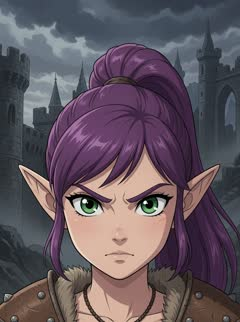
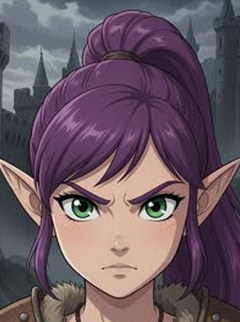
14 張頭像整體對齊：比例大小與高低
自動量測連試三種都失敗，全部丟掉：
- 全域膚色偵測：金髮與亮盔甲被判成皮膚，paladin 反而量成最寬
- 暗塊左右重心：抓到臉旁髮絲，archmage 量到 188px
- 連通區塊配對：把結果疊回原圖一看，抓到的多半是眉毛不是瞳孔

教訓：這種量測一定要把結果畫出來確認，只看數字會被騙。

改用可比較的目視法：14 張裁同一段 y 帶並排、每 20px 畫格線，瞳距用格子數讀。
中位數約 58px，眼線目標 y≈210。

同時修正上一輪的錯誤：v1.38 把 archmage 放大 1.10，但它本來就是全場最大的
一張（瞳距約 70），這輪改回 1.02 只保留上移。

extend_top() 擴充成 extend(top, bottom)：縮放接近 1 又要平移時裁切框會同時
超出上下兩端，只補上緣 PIL 會丟 box can't exceed original image size。

Claude-Session: https://claude.ai/code/session_01499oPV8s2HnsVoiMQYx47v

diff --git a/js/assetVersions.js b/js/assetVersions.js
@@ -131,18 +131,18 @@ window.HF_ASSET_V = {
 "assets/heroes/paladin.png":"9d5ed22c01",
 "assets/heroes/princess.png":"96218e6b94",
 "assets/heroes/ranger.png":"2fc49c63c5",
-"assets/heroes/portraits/amazon.jpg":"ba69400e54",
-"assets/heroes/portraits/archmage.jpg":"6540e261ce",
+"assets/heroes/portraits/amazon.jpg":"5954d74e7c",
+"assets/heroes/portraits/archmage.jpg":"54ddf8319b",
 "assets/heroes/portraits/assassin.jpg":"39eb4b429f",
 "assets/heroes/portraits/axeman.jpg":"11f383f4aa",
 "assets/heroes/portraits/dark_elf.jpg":"59a535eae3",
-"assets/heroes/portraits/dark_fighter.jpg":"431d0b4d67",
+"assets/heroes/portraits/dark_fighter.jpg":"ca42bf4f07",
 "assets/heroes/portraits/dark_mage.jpg":"ad8268fd96",
-"assets/heroes/portraits/dragon_knight.jpg":"ead2c26b33",
+"assets/heroes/portraits/dragon_knight.jpg":"3e82e73893",
 "assets/heroes/portraits/knight.jpg":"19c2e34511",
 "assets/heroes/portraits/monk.jpg":"62f61e3d26",
 "assets/heroes/portraits/orc_archer.jpg":"7ef9ed013a",
-"assets/heroes/portraits/paladin.jpg":"d992348e04",
+"assets/heroes/portraits/paladin.jpg":"fdfc7392cd",
 "assets/heroes/portraits/princess.jpg":"a440ebe206",
 "assets/heroes/portraits/ranger.jpg":"f10aef4e72",
 "assets/audio/bgm/battle.mp3":"712fbb782a",

diff --git a/index.html b/index.html
@@ -67,7 +67,7 @@
           而且開著不重整就永遠不會重抓），所有 ?v= 都不會生效 ——
           那時這行會停在舊版本號，或整行不存在。**改版時記得改這裡。**
         -->
-        <p class="build-stamp" id="build-stamp">v1.38 · 0815-1112</p>
+        <p class="build-stamp" id="build-stamp">v1.39 · 0815-1118</p>
         <!-- 偵測到線上有新版時才出現；點一下重新載入 -->
         <button class="build-update" id="build-update" type="button" hidden>有新版本 · 點一下更新</button>
       </div>
@@ -343,7 +343,7 @@
     </div>
   </div>
   <!-- 逐檔素材版本表：由 tools/gen_asset_versions.py 產生，必須排在其他腳本之前 -->
-  <script src="js/assetVersions.js?v=068e3636fb"></script>
+  <script src="js/assetVersions.js?v=1e3d150713"></script>
   <script src="js/data.js?v=3"></script>
   <script src="js/rng.js?v=7"></script>
   <script src="js/videoPlayer.js?v=28"></script>

diff --git a/tools/fix_portrait_framing.py b/tools/fix_portrait_framing.py
@@ -43,28 +43,44 @@ SIZE = (240, 322)
 # zoom：>1 放大（頭變大）。dy：正值把畫面內容**往上**移（頭上移），負值往下。
 # 兩個值都是以原圖 322px 高為單位。
 ADJUST = {
-    # 瞳距 44 → 目標約 60，所以放大 1.30；順便把眼線壓回 210 附近
-    "paladin": {"zoom": 1.30, "dy": 6},
-    # 眼線本來就在 207，問題是頭頂留白太多 —— 往上收一點並略放大
-    "archmage": {"zoom": 1.10, "dy": 14},
-    # 眼線 150 太高，要把頭往下移。它的髮梢已經頂到上緣，
-    # 所以裁切框得伸到畫面外，上方不足的部分用鏡射＋模糊補
-    #（那一帶是暗色天空與城堡剪影，補完看不出來）。
-    "dragon_knight": {"zoom": 1.10, "dy": -46},
+    # 2026-08-15 第二輪：睿哥要「每個角色比例大小、位置高低盡量一致」。
+    # 量法見上面；把同一段 y 帶（150–285）並排、每 20px 畫格線，直接比瞳距。
+    # 讀出來的瞳距中位數約 58px，眼線目標 y≈210。
+    #
+    # ⚠ 第一輪把 archmage 放大 1.10 是**放錯方向** —— 它本來就是全場最大的一張
+    #（瞳距約 70）。這一輪改回接近原尺寸，只保留「往上移」那部分。
+    "amazon": {"zoom": 1.22, "dy": 6},          # 瞳距約 44，全場最小
+    "archmage": {"zoom": 1.02, "dy": 12},       # 瞳距約 70，全場最大：只上移不放大
+    "dark_fighter": {"zoom": 1.08, "dy": 4},    # 瞳距約 52，眼線 216 偏低
+    "dragon_knight": {"zoom": 1.16, "dy": -44}, # 瞳距約 50；眼線原本 150 太高
+    "paladin": {"zoom": 1.24, "dy": 4},         # 瞳距原本 44，第一輪 1.30 稍過頭
 }
 
 
-def extend_top(img: Image.Image, pad: int) -> Image.Image:
-    """在上緣補 `pad` 像素：取頂端同高的一條鏡射後重模糊，接縫看不出來。"""
-    if pad <= 0:
+
+def extend(img: Image.Image, top: int, bottom: int) -> Image.Image:
+    """上／下緣各補一段：取該端同高的一條鏡射後重模糊，接縫看不出來。
+
+    縮放小於 1（幾乎不放大）又要平移時，裁切框會同時超出上下兩端，
+    所以兩邊都要能補 —— 只做上緣的話 PIL 會丟 "box can't exceed original image size"。
+    """
+    top, bottom = max(0, top), max(0, bottom)
+    if not top and not bottom:
         return img
-    strip = img.crop((0, 0, img.width, min(pad, img.height)))
-    strip = strip.transpose(Image.FLIP_TOP_BOTTOM).filter(ImageFilter.GaussianBlur(6))
-    if strip.height < pad:
-        strip = strip.resize((img.width, pad), Image.LANCZOS)
-    out = Image.new("RGB", (img.width, img.height + pad))
-    out.paste(strip, (0, 0))
-    out.paste(img, (0, pad))
+    out = Image.new("RGB", (img.width, img.height + top + bottom))
+    if top:
+        s = img.crop((0, 0, img.width, min(top, img.height)))
+        s = s.transpose(Image.FLIP_TOP_BOTTOM).filter(ImageFilter.GaussianBlur(6))
+        if s.height < top:
+            s = s.resize((img.width, top), Image.LANCZOS)
+        out.paste(s, (0, 0))
+    out.paste(img, (0, top))
+    if bottom:
+        s = img.crop((0, max(0, img.height - bottom), img.width, img.height))
+        s = s.transpose(Image.FLIP_TOP_BOTTOM).filter(ImageFilter.GaussianBlur(6))
+        if s.height < bottom:
+            s = s.resize((img.width, bottom), Image.LANCZOS)
+        out.paste(s, (0, top + img.height))
     return out
 
 
@@ -75,14 +91,15 @@ def reframe(src: Image.Image, zoom: float, dy: float) -> tuple[Image.Image, str]
     top = cy - ch / 2
     # 用 ceil 不用 round：四捨五入會少補一個像素，top 就會剩下 -0.4，
     # PIL 的 resize(box=...) 不吃負的偏移，直接 ValueError。
-    pad = max(0, math.ceil(-top))
-    work = extend_top(src, pad)
-    top += pad
+    pad_t = max(0, math.ceil(-top))
+    pad_b = max(0, math.ceil(top + ch - src.height))
+    work = extend(src, pad_t, pad_b)
+    top += pad_t
     left = cx - cw / 2
     box = (left, top, left + cw, top + ch)
     note = f"zoom {zoom:.2f} dy {dy:+.0f} 裁切 {tuple(round(v) for v in box)}"
-    if pad:
-        note += f" · 上緣補 {pad}px"
+    if pad_t or pad_b:
+        note += f" · 補邊 上{pad_t} 下{pad_b}px"
     return work.resize(SIZE, Image.LANCZOS, box=box), note
 
 

diff --git a/PROJECT_NOTES.md b/PROJECT_NOTES.md
@@ -7,7 +7,7 @@
 ## 目前狀態
 
 - 最後更新：2026-08-14（Claude Code）
-- 進度：可玩 **v1.38**（v1.9 的 3 支修正影片＋7 個角色改名＋確定動畫可點擊跳過＋展翼版魔王立繪 `boss_model_v3.png` 與新的魔王降臨影片）；14 角色影片（wait／confirm／attack／victory 各 14 支，CRF 29 共 26MB）；使用者製作的開始選單伴奏＋14 角選角專屬 BGM 精華、3 首原有場景 BGM、14 角各自攻擊／勝利音效、完整 UI／魔王聲效；角色卡切換會平滑換曲，首頁音效按鈕與設定圖示會依開關在 🔊／🔇 間同步切換；14 張選角卡完整排成 7×2
+- 進度：可玩 **v1.39**（v1.9 的 3 支修正影片＋7 個角色改名＋確定動畫可點擊跳過＋展翼版魔王立繪 `boss_model_v3.png` 與新的魔王降臨影片）；14 角色影片（wait／confirm／attack／victory 各 14 支，CRF 29 共 26MB）；使用者製作的開始選單伴奏＋14 角選角專屬 BGM 精華、3 首原有場景 BGM、14 角各自攻擊／勝利音效、完整 UI／魔王聲效；角色卡切換會平滑換曲，首頁音效按鈕與設定圖示會依開關在 🔊／🔇 間同步切換；14 張選角卡完整排成 7×2
 - 路徑：`/Users/longxia7hao/Heroes_Fate/`
 - **開工必讀（會自動載入，跨裝置都有效）：`CLAUDE.md`**；架構長篇說明：`AGENT_HANDOFF.md`（內文現況數字是 2026-08-01 的舊值，只當背景讀）
 - **GitHub（2026-08-13 建立）**：`longxia7hao-dev/heroes-fate`（公開），版本控制 265 檔約 73MB；`assets/anim`（128MB）與舊高碼率原片 `assets/videos/{wait,confirm,victory}`（272MB）由 `.gitignore` 排除，只留本機與 Drive
@@ -43,6 +43,7 @@
 
 ## 變更日誌
 
+- 2026-08-15｜Claude Code｜**v1.39 14 張頭像整體對齊（比例大小與高低）**：①睿哥：「盡量讓每個角色比例大小、位置高低一致。」②**自動量測連試三種都失敗，全部丟掉**：(a) 全域膚色偵測 —— 金髮與亮盔甲被判成皮膚，量出來 paladin 反而最寬；(b) 暗塊左右重心 —— 抓到臉旁的髮絲，archmage 量到 188px；(c) 連通區塊配對 —— **把偵測結果疊回原圖一看，抓到的多半是眉毛不是瞳孔**。**教訓：這種量測一定要把結果畫出來確認，只看數字會被騙。**③改用**目視但可比較**的方法：把 14 張裁同一段 y 帶（150–285）並排、每 20px 畫格線，瞳距直接用格子數讀。讀出來瞳距中位數約 **58px**、眼線目標 y≈210。④**發現上一輪做錯一件事**：v1.38 把 archmage 放大 1.10 —— 但它本來就是**全場最大**的一張（瞳距約 70）。這輪改回 1.02（幾乎不放大），只保留「往上移」。⑤這輪的設定：amazon 1.22/+6（瞳距 44，全場最小）、archmage 1.02/+12、dark_fighter 1.08/+4（眼線 216 偏低）、dragon_knight 1.16/−44、paladin 1.24/+4。⑥`extend_top()` 擴充成 `extend(top, bottom)` —— 縮放接近 1 又要平移時，裁切框會**同時**超出上下兩端，只補上緣的話 PIL 會丟 `box can't exceed original image size`。⑦原圖仍全部留在 `portraits/_orig/`，工具永遠只讀那裡，**連跑兩次 md5 相同**。⑧版本表 1e3d150713；版本印記 `v1.39`。⑨**實測**：改後同段 y 帶並排，14 張的臉大小與眼線都落在同一帶；選角格 4x 截圖確認、console error 0。⑩**沒有動的**：assassin（兜帽只有一對發光眼，沒有臉可對齊）；knight 的臉因為在頭盔裡本來就偏小，那是美術本身，不是取景問題。
 - 2026-08-15｜Claude Code｜**v1.38 三張選角頭像重新取景（頭的大小與高低對齊）**：①睿哥：「聖騎士的頭明顯比大家小；大魔導士頭的位置太低；龍騎士頭的位置太高。」②**量法**：14 張排成 montage、在 **y=210** 畫基準線，再逐張看**瞳距**（瞳孔中心的 x 距離 —— 這是頭部大小最穩的代理值，不受髮型與盔甲干擾；**膚色偵測不能用**，金髮與盔甲會被判成皮膚，量出來 paladin 反而變最寬）。量到：多數人瞳距 60–64px、眼線 205–218；**paladin 瞳距只有 44**（別人的 0.7）、**dragon_knight 眼線 150**（高了 60px）、archmage 眼線 207 但頭頂留白比別人多。③新增 `tools/fix_portrait_framing.py`，以 `zoom`／`dy` 重新取景：paladin 1.30／+6、archmage 1.10／+14、dragon_knight 1.10／**−46**。④dragon_knight 的髮梢本來就頂到上緣，往下移代表**裁切框要伸出畫面外**，上方不足處用**鏡射＋高斯模糊**補 32px（那一帶是暗色天空與城堡剪影，補完看不出來）。⑤**避開重跑就毀掉的陷阱**：這支會覆蓋 `portraits/<id>.jpg`，若來源就是輸出檔，重跑一次就再縮放一次。所以原圖另存 `portraits/_orig/`（44KB），**本檔永遠只讀那裡** —— 已實測連跑兩次 md5 完全相同。（`generate_audio.py`／`gen_sfx_v2.py` 都被同類陷阱咬過，這次一開始就擋掉。）⑥這三張同時用在**選角格**與**命運排序的牌面**，兩邊都吃 `heroThumb()`，逐檔雜湊會自動換網址。⑦版本表 068e3636fb；版本印記 `v1.38`。⑧**實測**：改後 montage 三張的眼線都落在基準線上、頭的大小與鄰居相當；選角格 4x 截圖確認，console error 0。
 - 2026-08-15｜Claude Code｜**v1.37 卡片正面：整張臉跟肩膀完整露出**：①睿哥：「卡片的正面能讓角色的整張臉跟肩膀露出來嗎？現在都被切掉。」**是兩件事疊起來造成的**：(a) `object-fit: cover` 把 **0.745 的頭像**塞進 **0.667 的卡**（卡片為了配合卡背素材是 2:3），左右各裁掉 5%，肩膀先斷一截；(b) 名次條用漸層**壓在圖上**、蓋住下面三成，剩下的肩膀也沒了。②頭像素材（240×322）本身就是很緊的「臉＋肩膀」構圖，**肩膀就貼在下緣**，所以只要裁一點或蓋一點就會不見。③改成上下兩段的 flex：圖用 **`object-fit: contain` 完整顯示不裁切**，名次條**自己佔一條**放在圖下方（不再是絕對定位疊上去）。④`min-height: 0` 一樣不能省 —— flex 子項預設 `min-height: auto`，不歸零的話圖會把名次條擠出卡片外。⑤左右各留約 5px 的黑邊（0.745 的圖放進 0.667 的框），底色是深色所以幾乎看不出來；要完全沒有黑邊就得重切一套 2:3 的頭像，那要動素材，先不做。⑥快取：ornate.css?v=9→10；版本印記 `v1.37`。⑦**實測**：`object-fit` 為 `contain`、六張牌名次 1..6、翻面數等於總數；5x 放大截圖確認每張都看得到完整的臉與肩膀。
 - 2026-08-15｜Claude Code｜**v1.36 命運排序換上睿哥的開場影片與卡背**：①**卡背**：`assets/ui/card_back.webp`（六芒星魔法陣＋金框，320×480／44.6KB）。**卡片比例從 3:4 改成 2:3** —— 那是**素材本身的比例**（1152×1728）；維持 3:4 的話那張圖不是被裁掉外框就是被拉扁，所以是卡片配合素材。英雄頭像（240×322）在 2:3 框裡用 `cover` 只裁掉一點左右，角色是置中的沒問題。②**開場影片**：`assets/videos/mobile/order/intro.mp4`，取代先前借用的 `boss/arrival.mp4`。**原片 1152×1728／24Mb/s／18.3MB，4G 上根本不可能**；壓成 720×1080、CRF 30、**1.09MB**（掃過 CRF 28／30／32 得 1473／1093／812KB，30 與既有的 `boss/arrival.mp4` 1386KB 同級）。③**音軌拿掉**：原片帶 AAC（-32 dBFS 的低量環境音），但**舞台影片一律靜音播放**（iOS 自動播放的硬性條件），留著只是負重。要用那段聲音的話得另外抽成音效 cue。④poster 一併重製：`assets/videos/poster/order/intro.jpg`（720×1080／113KB）。⑤**`CLAUDE.md` 那條「雲端做不到 ffmpeg 轉檔」已更正** —— 這條從 v1.22 起就被發現是錯的，拖到現在才改。`pip install imageio-ffmpeg` 帶的是靜態 ffmpeg 7.0.2，H.264／AAC 都能解能編。⑥快取：game.js?v=67→68、ornate.css?v=8→9、版本表 5ea9c51bfd；**卡背走 CSS `url()`，吃不到逐檔雜湊表，換圖要手動 +`?v=`**（目前 `?v=1`）。⑦**實測**：`order/intro.mp4` 與 `order/intro.jpg`、`ui/card_back.webp` 皆 200；卡片實測比例 **0.667**（＝2:3）、六張一列無溢出、翻面後名次仍是 1..N，console error 0。
